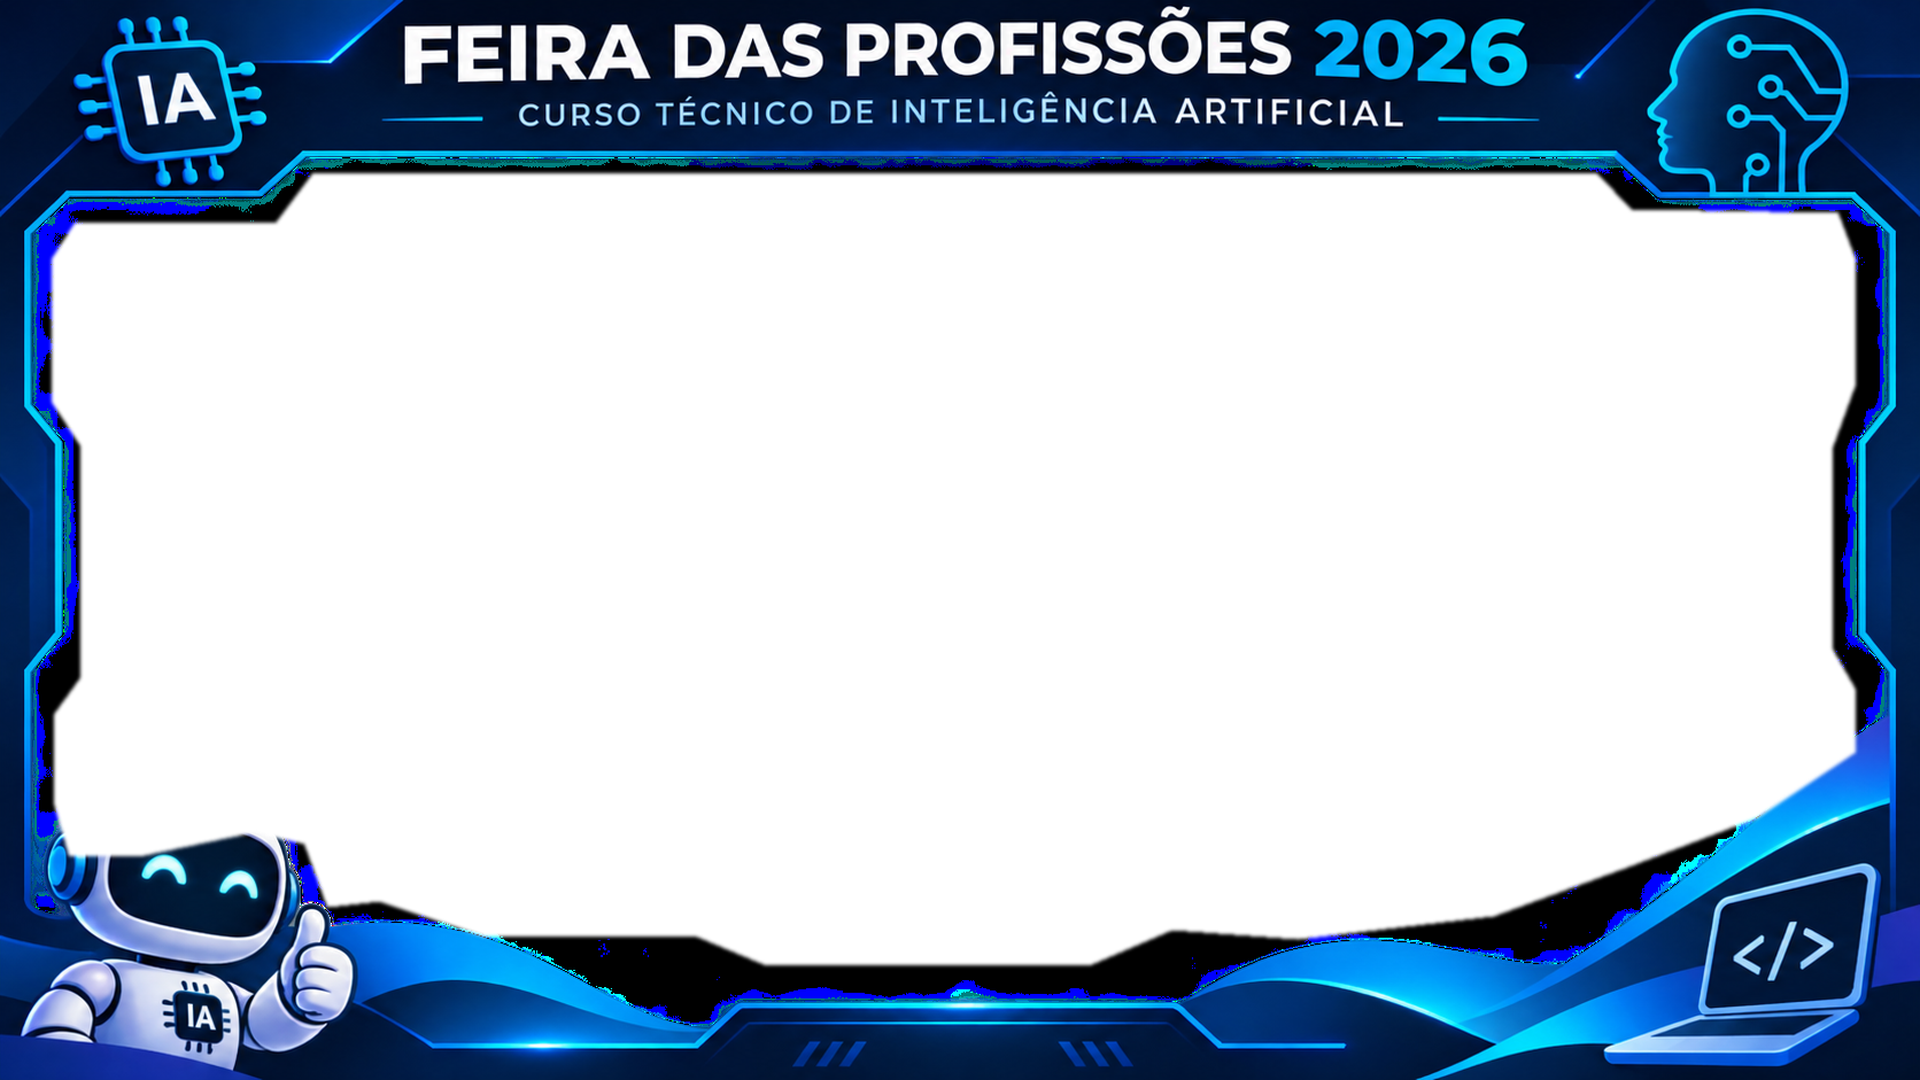
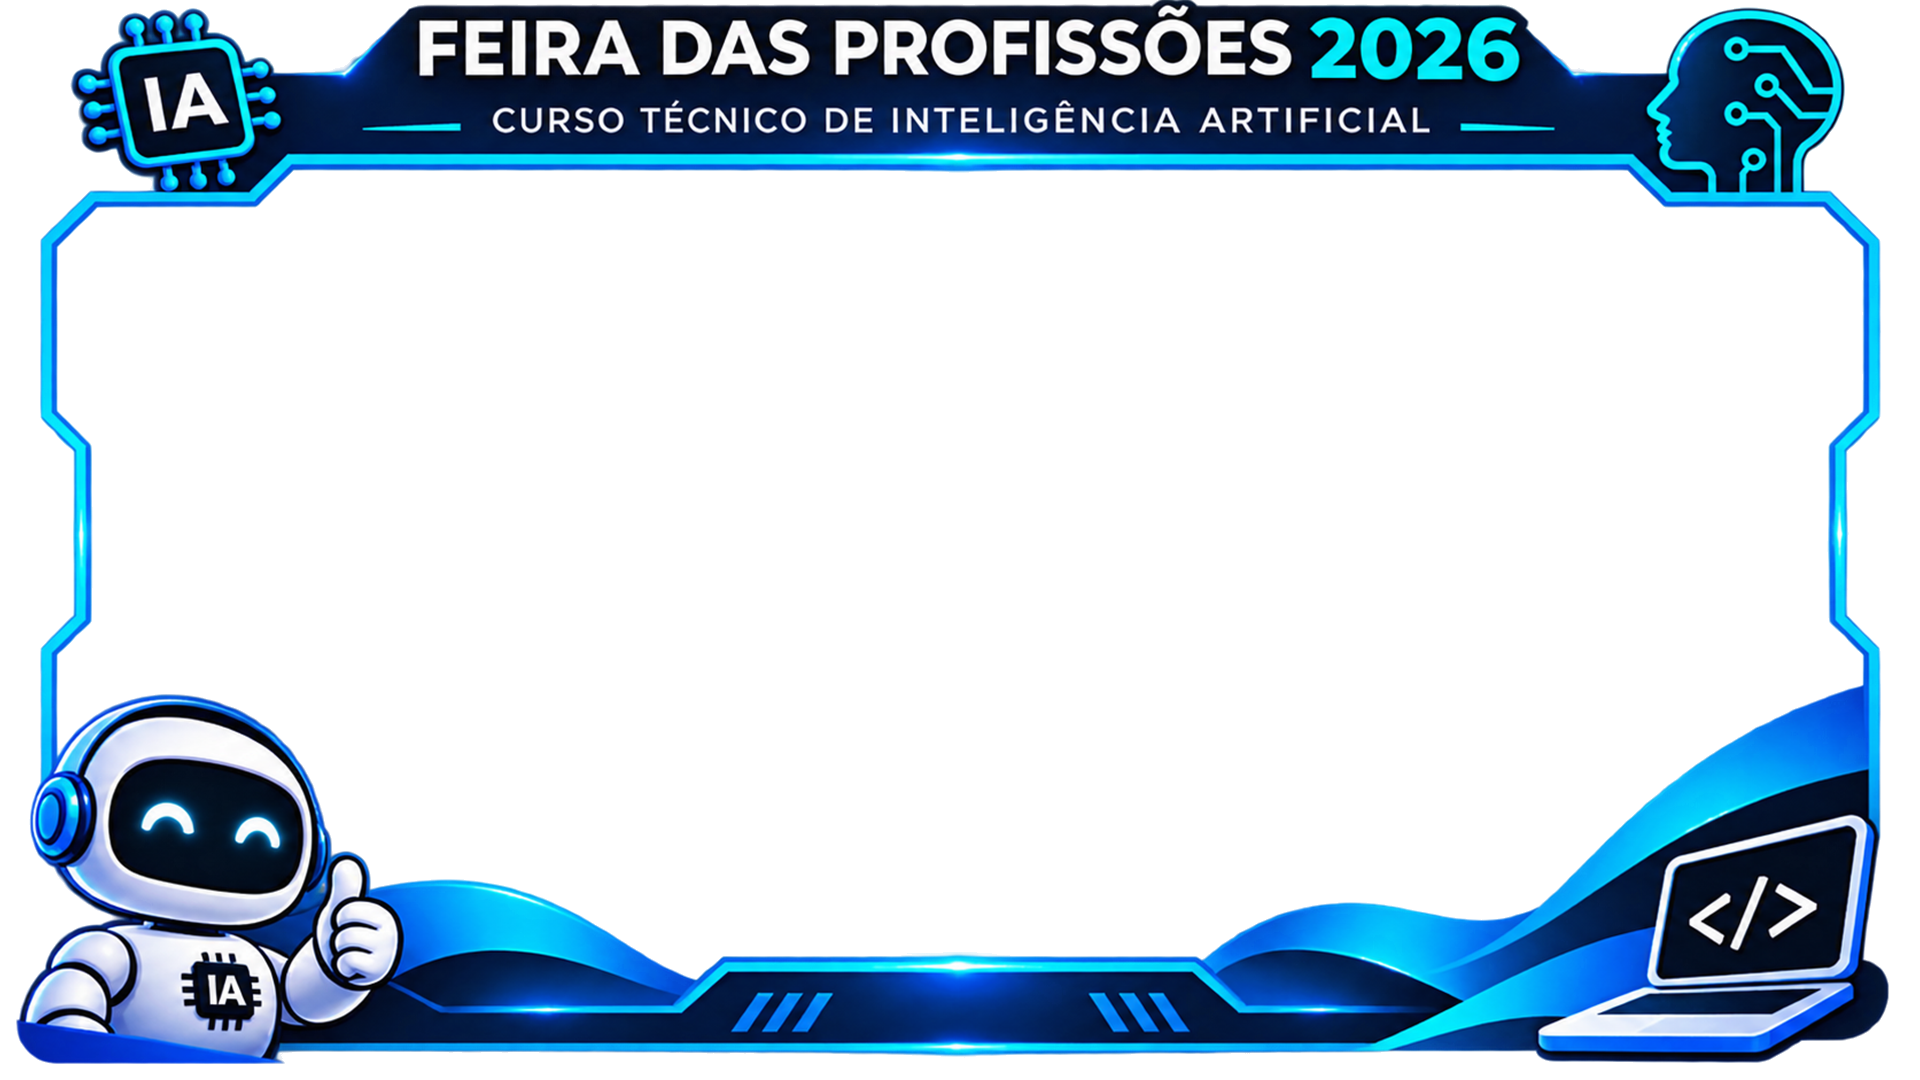
fix: atualiza as molduras neon da feira

diff --git a/docs/PROGRESSO.md b/docs/PROGRESSO.md
@@ -304,3 +304,6 @@ Lint, tipagem, formatação, build e os 55 testes passaram. O worker do build se
 - **Validação visual** Chrome com vídeo sintético nas duas proporções e larguras de 390 e 1280 px. O retângulo da moldura coincidiu com o do vídeo, e as capturas conferidas preservaram resolução e orientação.
 - **Validação automatizada** lint, typecheck e build do GitHub Pages passaram. O Vitest passou com 189 testes em 16 arquivos. Nenhuma dependência adicionada.
 - **Continuidade** branch `feature/camera-frame-preview`, para revisão em `develop`. Validar com a câmera ou DroidCam do evento e com gestos reais antes da integração.
+
+- **Revisão da arte neon** os anexos mais recentes substituem as duas artes no PR #27. O PNG 16:9 foi ajustado de 1672 × 941 para 1920 × 1080 e o 4:3 de 1448 × 1086 para 640 × 480, com escala proporcional. Foram removidos resíduos de baixa opacidade. A verificação de alfa no interior e a inspeção visual sobre fundo quadriculado confirmaram a abertura limpa nas regiões examinadas.
+- **Validação da revisão neon** lint, typecheck, build do GitHub Pages e 189 testes em 16 arquivos passaram. Os dois PNGs do build conferem por hash com os arquivos revisados.

diff --git a/docs/COMPOSICAO_FOTOGRAFICA.md b/docs/COMPOSICAO_FOTOGRAFICA.md
@@ -1,6 +1,6 @@
 # Composição fotográfica — Etapa 06
 
-A cabine usa os dois PNGs oficiais da Feira das Profissões 2026, com a identificação do Curso Técnico de Inteligência Artificial. Os arquivos fornecidos têm canal alfa na abertura central e foram incluídos sem reexportação.
+A cabine usa os dois PNGs neon oficiais da Feira das Profissões 2026, com a identificação do Curso Técnico de Inteligência Artificial. As artes fornecidas foram redimensionadas proporcionalmente e limpas de resíduos de baixa opacidade. A abertura central tem canal alfa transparente.
 
 | Proporção da captura | Arte em `src/assets/frames/`   | Dimensões da arte |
 | -------------------- | ------------------------------ | ----------------- |
